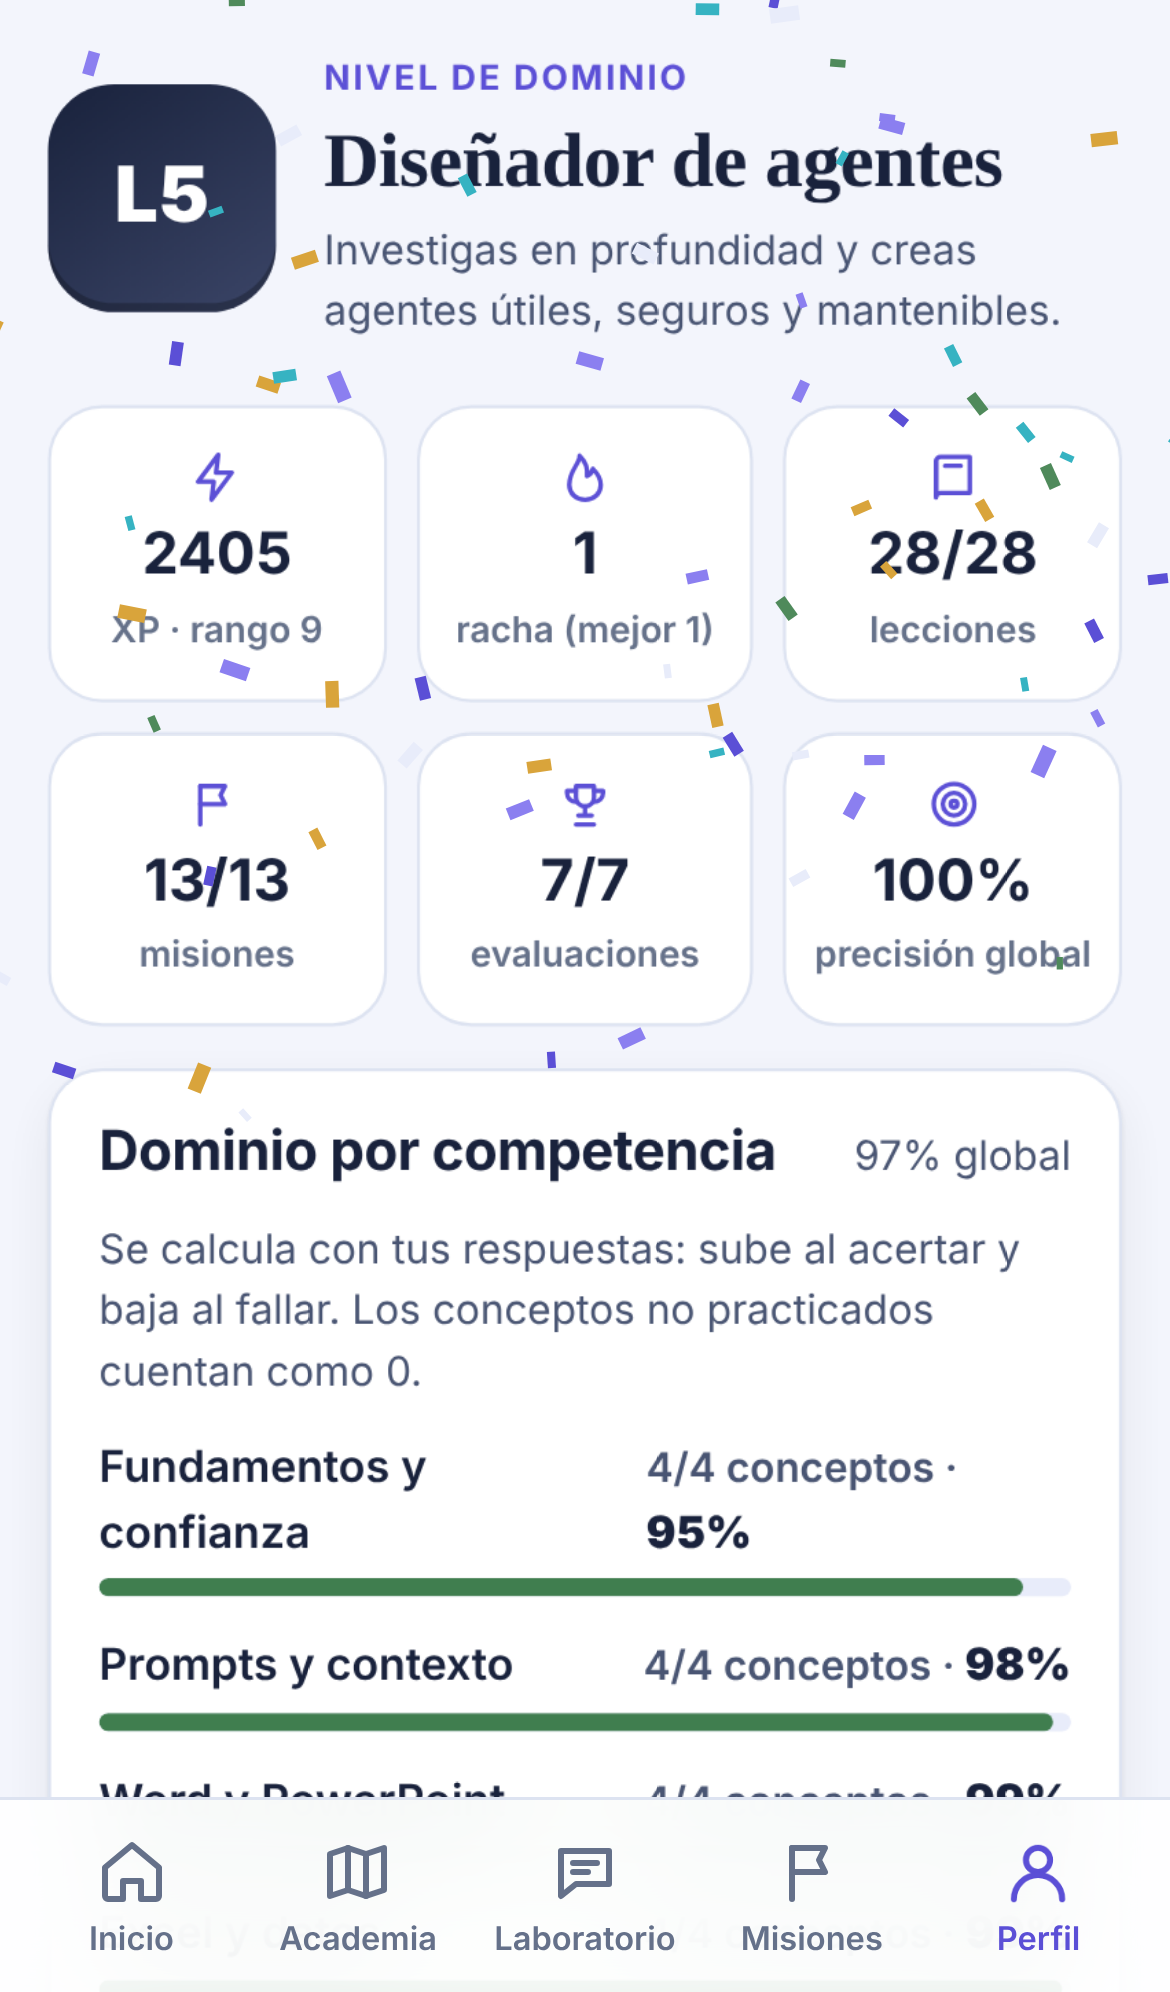
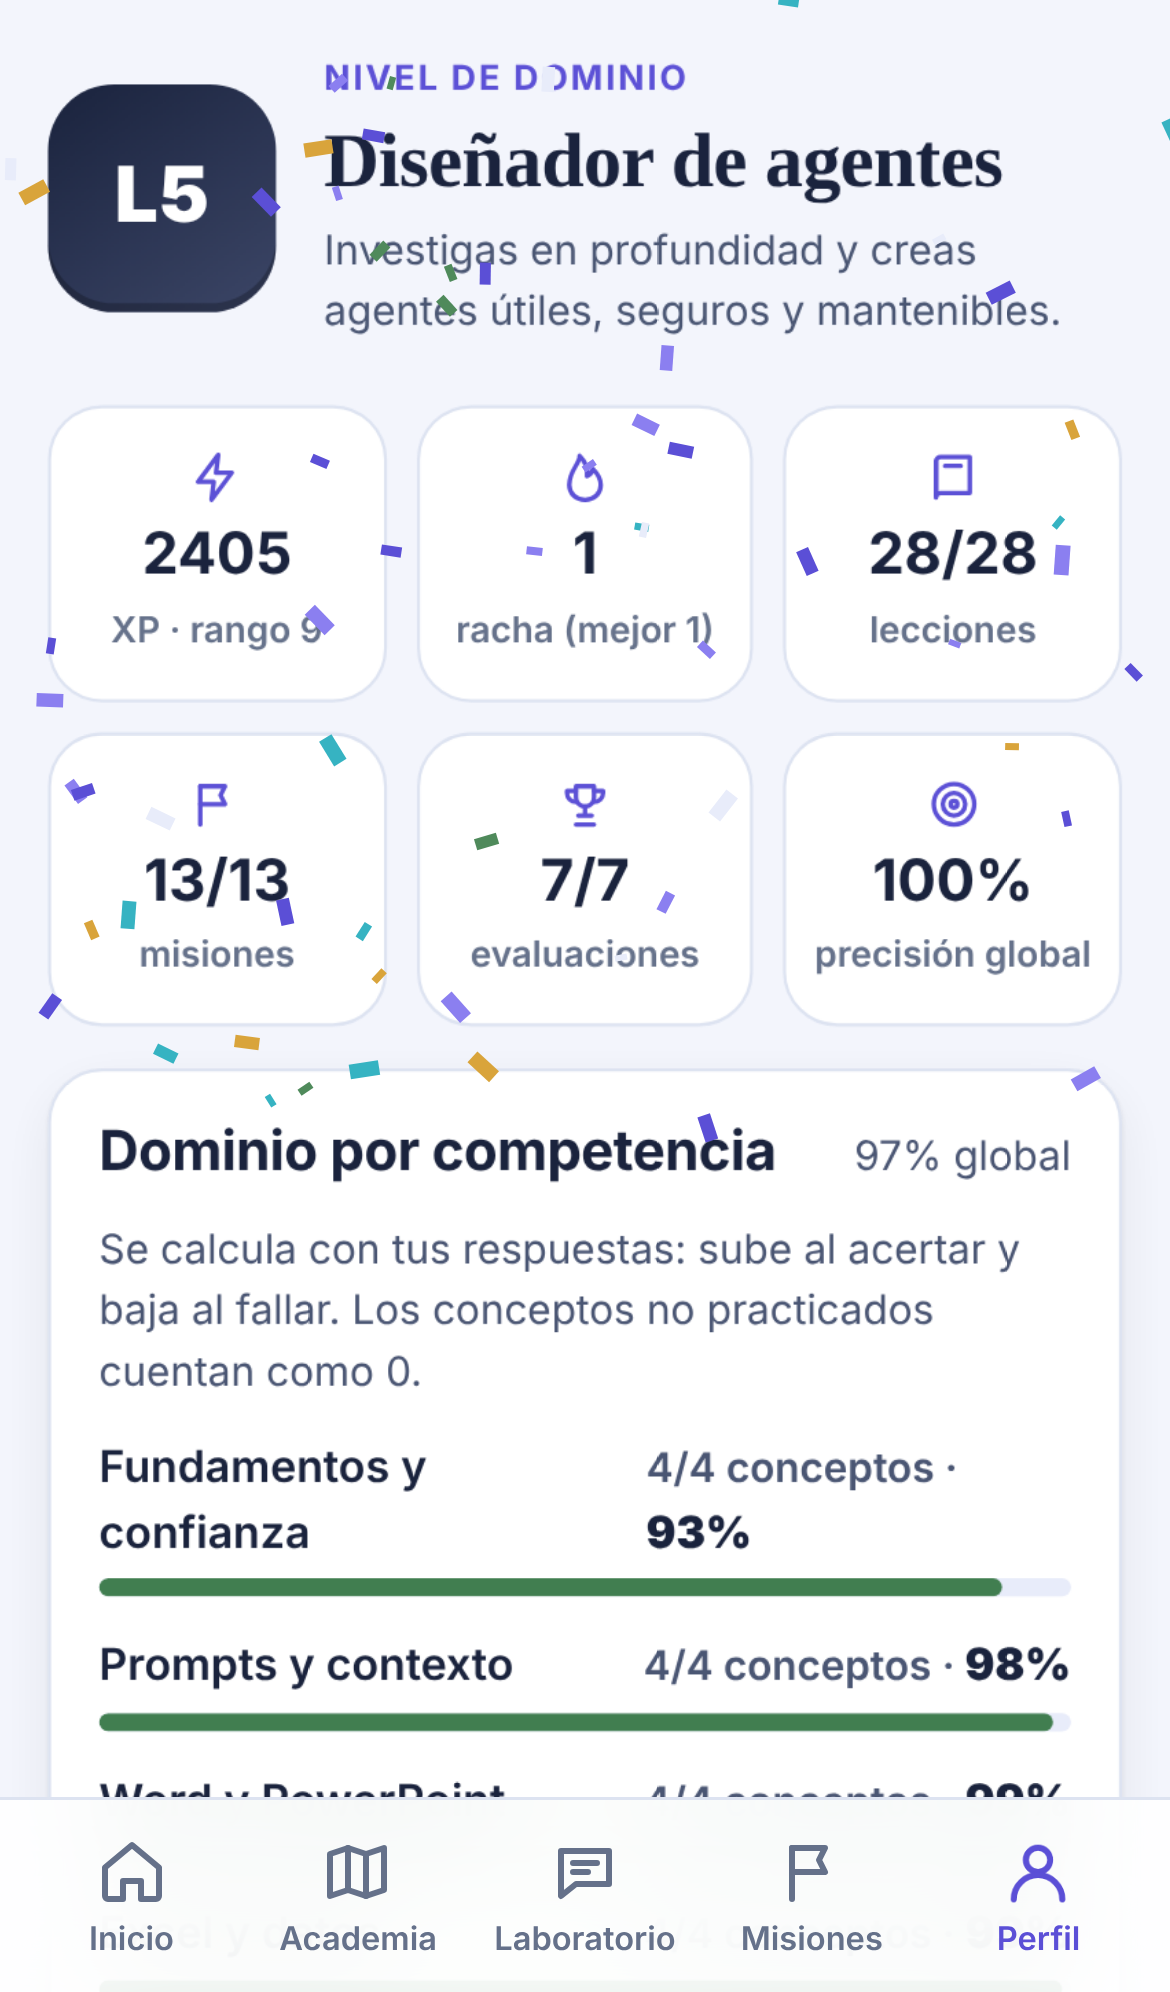
Contexto antes de practicar: presentación del caso, guía del chat y formato de agentes
- Lección 1.1: presenta la empresa ficticia, las personas y los archivos del caso.
- Lección 1.2: explica el Copilot de la app antes del primer ejercicio con él.
- Lección 7.2: muestra el formato de un agente antes de editar uno.
- Lecciones 3.3 y 6.1: enlazan con lo hecho antes (la nota y las ofertas).
- Nuevo test que impide usar personas, interfaz o archivos sin presentarlos.

Claude-Session: https://claude.ai/code/session_01FqJCjZH1rTUbYrhyCxryNC

diff --git a/docs/VERIFICACION.md b/docs/VERIFICACION.md
@@ -2,13 +2,14 @@
 
 Fecha: 10 de noviembre de 2026. Entorno: Node 22, Python 3 y Chromium con Playwright emulando un **iPhone 13**.
 
-## Tests automáticos (`npm test`): 35/35 superados
+## Tests automáticos (`npm test`): 36/36 superados
 
 - **Motor**: XP proporcional a la precisión y sin duplicar al repetir; un examen suspendido no desbloquea; desbloqueo secuencial; niveles L2→L5 (L5 exige el proyecto final); racha por días locales; repaso espaciado; dominio por competencia que sube y baja; logros; recomendaciones.
 - **Persistencia**: guardar y recargar, datos corruptos, exportar e importar (la XP de una copia manipulada se recalcula).
 - **Copilot simulado**: medidor de la petición; referencias con `/`; archivos restringidos (no aparecen y Copilot no los lee); modo Web sin datos de trabajo; apps y archivo abierto; agentes integrados y propios (el agente sigue activo hasta un chat nuevo); acciones que exigen lo que declaran y escriben archivos; editor de agentes; restauración del laboratorio.
 - **Temario**: 7 módulos, 28 lecciones (todas con 2+ tarjetas, 3+ ejercicios, 3+ formatos, ≤ 4 conceptos, ≤ 12 pasos y resumen final), 13 misiones, 8 retos, evaluaciones con banco suficiente, IDs únicos, los 33 conceptos practicados, y que cada respuesta correcta valida y cada incorrecta no.
 - **Soluciones ejecutadas**: cada uno de los 43 ejercicios con Copilot se reproduce en el simulador. Se comprueba que el estado inicial **no** aprueba, que la solución **sí**, que cada respuesta preparada se alcanza y que una petición vaga **no** basta. Los editores: el texto inicial no aprueba y la solución sí.
+- **Nada sin contexto**: las personas y la empresa del caso se presentan en una tarjeta antes de aparecer en un ejercicio; la interfaz del chat y el formato de los agentes se explican antes de su primer ejercicio; cada archivo que menciona un enunciado existe.
 - **Datos**: sin IBAN, DNI, claves de API ni direcciones de correo en el contenido.
 - **PWA**: el Service Worker precachea todos los archivos de ejecución; el manifest y los iconos existen; no hay recursos externos; todas las importaciones JS resuelven.
 
